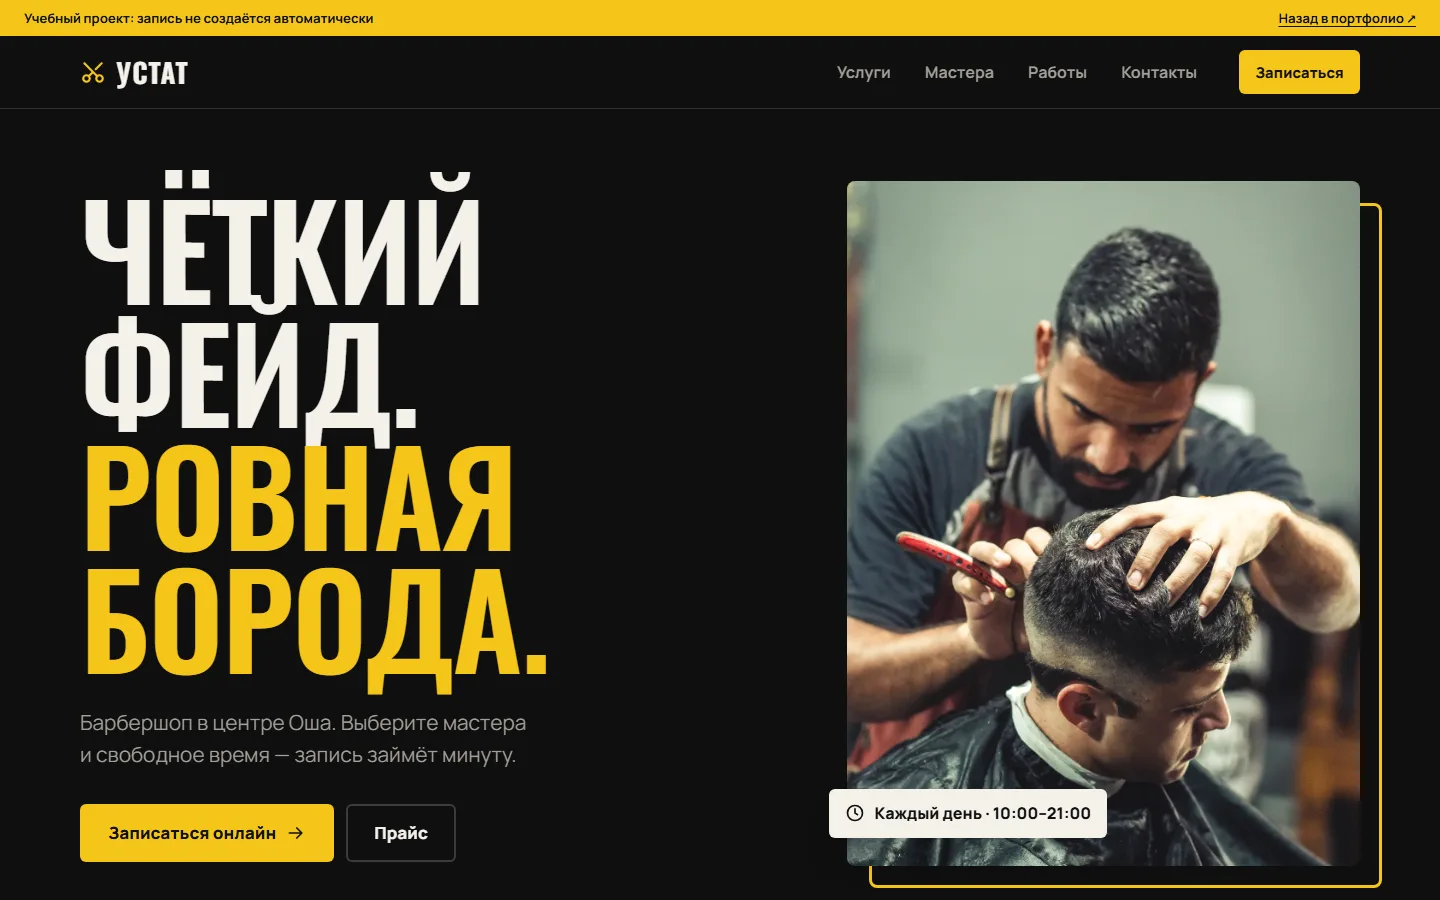
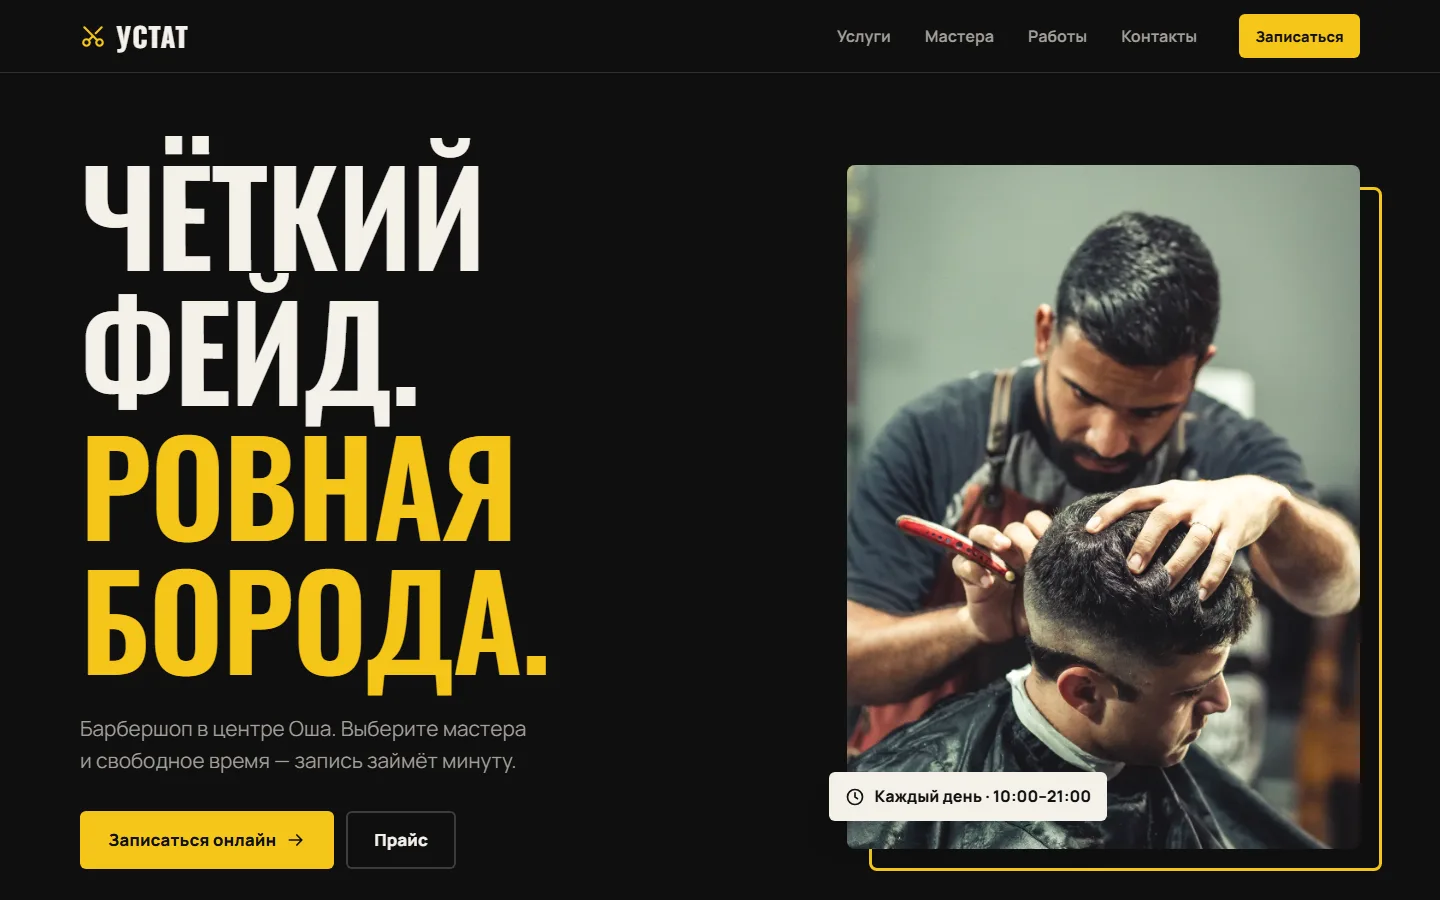
Убрать пометки «учебный проект», обновить скриншоты работ

diff --git a/assets/js/works.js b/assets/js/works.js
@@ -3,7 +3,7 @@
 window.PORTFOLIO_WORKS = [
   {
     title: "Мебельный каталог «Жайлуу Үй»",
-    type: "Пример сайта",
+    type: "Интернет-каталог",
     description: "Каталог мебели для Нооката на кыргызском и русском языках. Поиск, фильтры и корзина.",
     image: "assets/images/site-furniture.webp",
     imageAlt: "Главная страница сайта «Жайлуу Үй» в тёмном стиле: заголовок и фото дивана при вечернем свете",
@@ -14,7 +14,7 @@ window.PORTFOLIO_WORKS = [
   },
   {
     title: "Сайт городского кафе «Лист»",
-    type: "Пример сайта · Учебный проект",
+    type: "Сайт кафе",
     description: "Меню с поиском и фильтрами, избранное и корзина. Посмотрите блюда и соберите свой заказ.",
     image: "assets/images/site-cafe.webp",
     imageAlt: "Главная страница сайта кафе «Лист»: заголовок «Хорошая еда. Хороший день.» и блюдо",
@@ -25,7 +25,7 @@ window.PORTFOLIO_WORKS = [
   },
   {
     title: "Барбершоп «Устат»",
-    type: "Сайт услуги · Учебный проект",
+    type: "Сайт услуги",
     description: "Прайс, мастера и онлайн-запись: услуги, мастер, день и свободное время — и готовое сообщение в WhatsApp.",
     image: "assets/images/site-barber.webp",
     imageAlt: "Главная страница сайта барбершопа «Устат»: заголовок «Чёткий фейд. Ровная борода.» и фото барбера",

diff --git a/index.html b/index.html
@@ -6,7 +6,7 @@
 <meta name="theme-color" content="#fbf8f3"><link rel="icon" href="assets/favicon.svg" type="image/svg+xml">
 <link rel="preload" href="assets/fonts/Manrope.ttf" as="font" type="font/ttf" crossorigin>
 <link rel="stylesheet" href="assets/css/base.css"><link rel="stylesheet" href="assets/css/fonts.css"><link rel="stylesheet" href="assets/css/portfolio.css?v=6"><link rel="stylesheet" href="assets/css/motion.css?v=5">
-<script defer src="assets/js/config.js?v=5"></script><script defer src="assets/js/works.js?v=6"></script><script defer src="assets/js/portfolio.js?v=5"></script><script defer src="assets/js/motion.js"></script>
+<script defer src="assets/js/config.js?v=5"></script><script defer src="assets/js/works.js?v=7"></script><script defer src="assets/js/portfolio.js?v=5"></script><script defer src="assets/js/motion.js"></script>
 </head><body>
 <svg xmlns="http://www.w3.org/2000/svg" aria-hidden="true" width="0" height="0" style="position:absolute;overflow:hidden"><symbol id="arrow-up-right" viewBox="0 0 24 24"><path d="M7 17 17 7M8 7h9v9"/></symbol><symbol id="arrow-right" viewBox="0 0 24 24"><path d="M4 12h15m-6-6 6 6-6 6"/></symbol><symbol id="arrow-down" viewBox="0 0 24 24"><path d="M12 4v15m-6-6 6 6 6-6"/></symbol><symbol id="menu" viewBox="0 0 24 24"><path d="M4 8h16M4 16h16"/></symbol><symbol id="chat" viewBox="0 0 24 24"><path d="M20 11.5a8 8 0 0 1-11.6 7.1L4 20l1.4-4.2A8 8 0 1 1 20 11.5Z"/></symbol><symbol id="mail" viewBox="0 0 24 24"><rect x="3" y="5" width="18" height="14" rx="3"/><path d="m4 7 8 6 8-6"/></symbol></svg>
 <a class="skip" href="#main">К содержанию</a>
